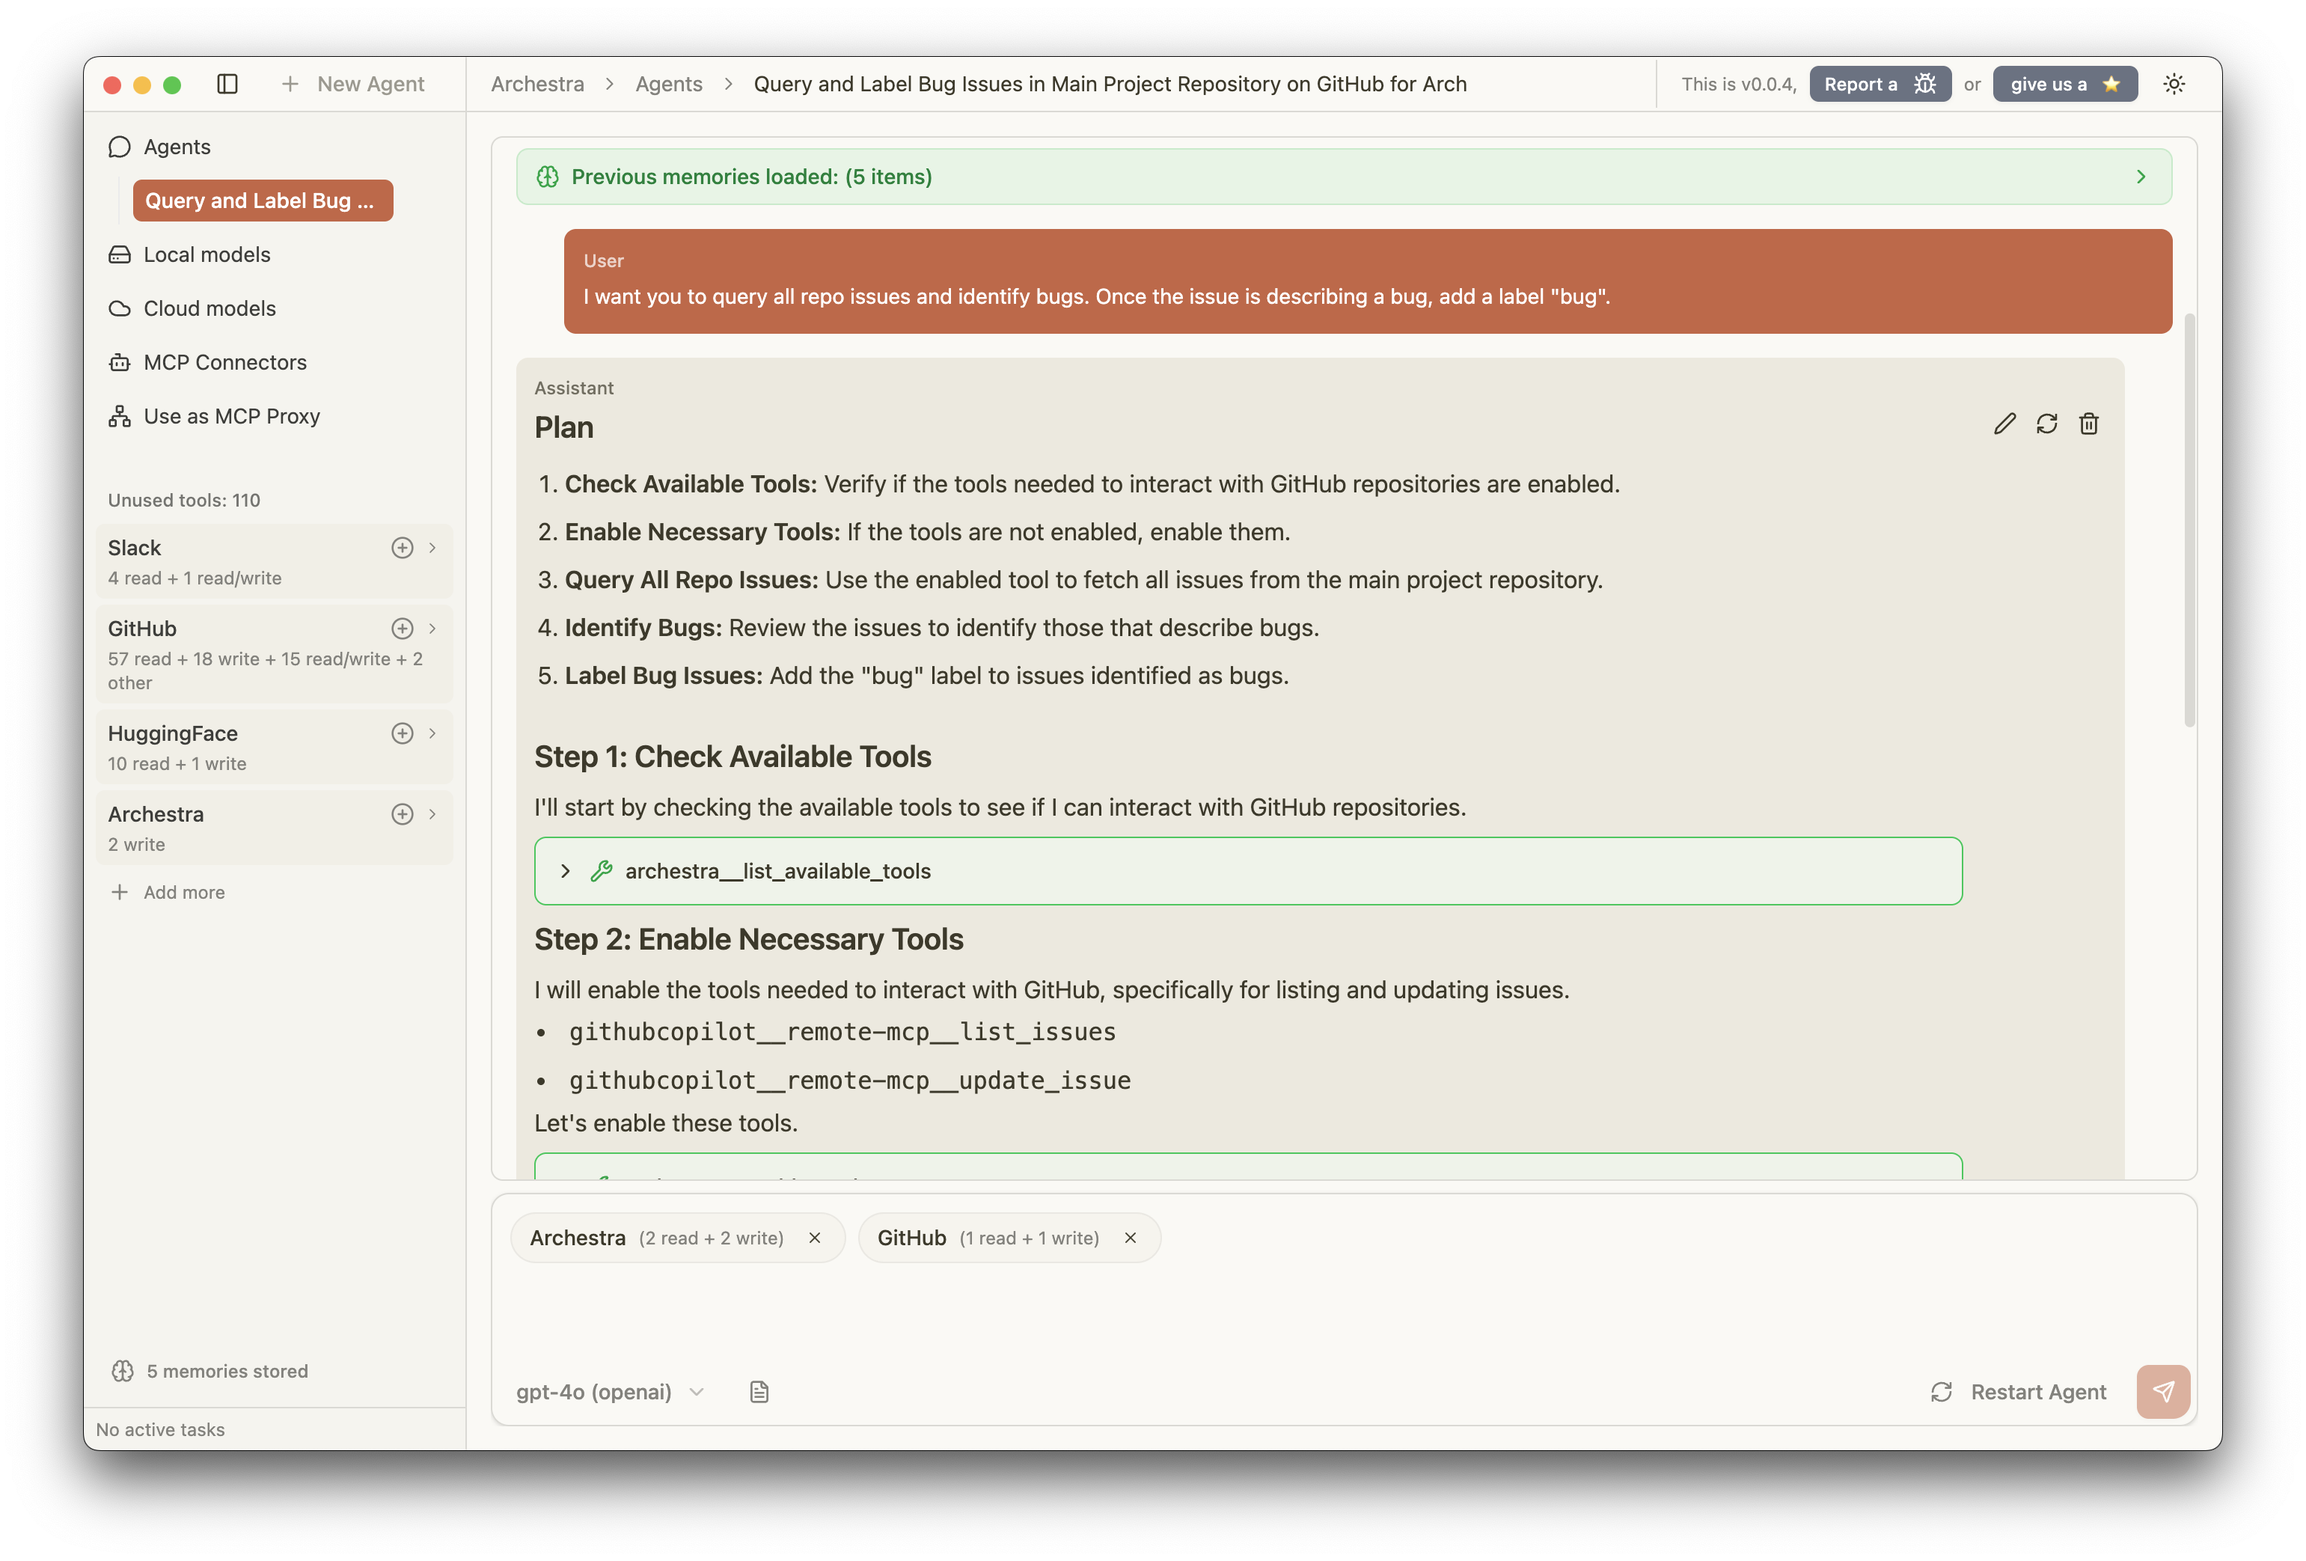
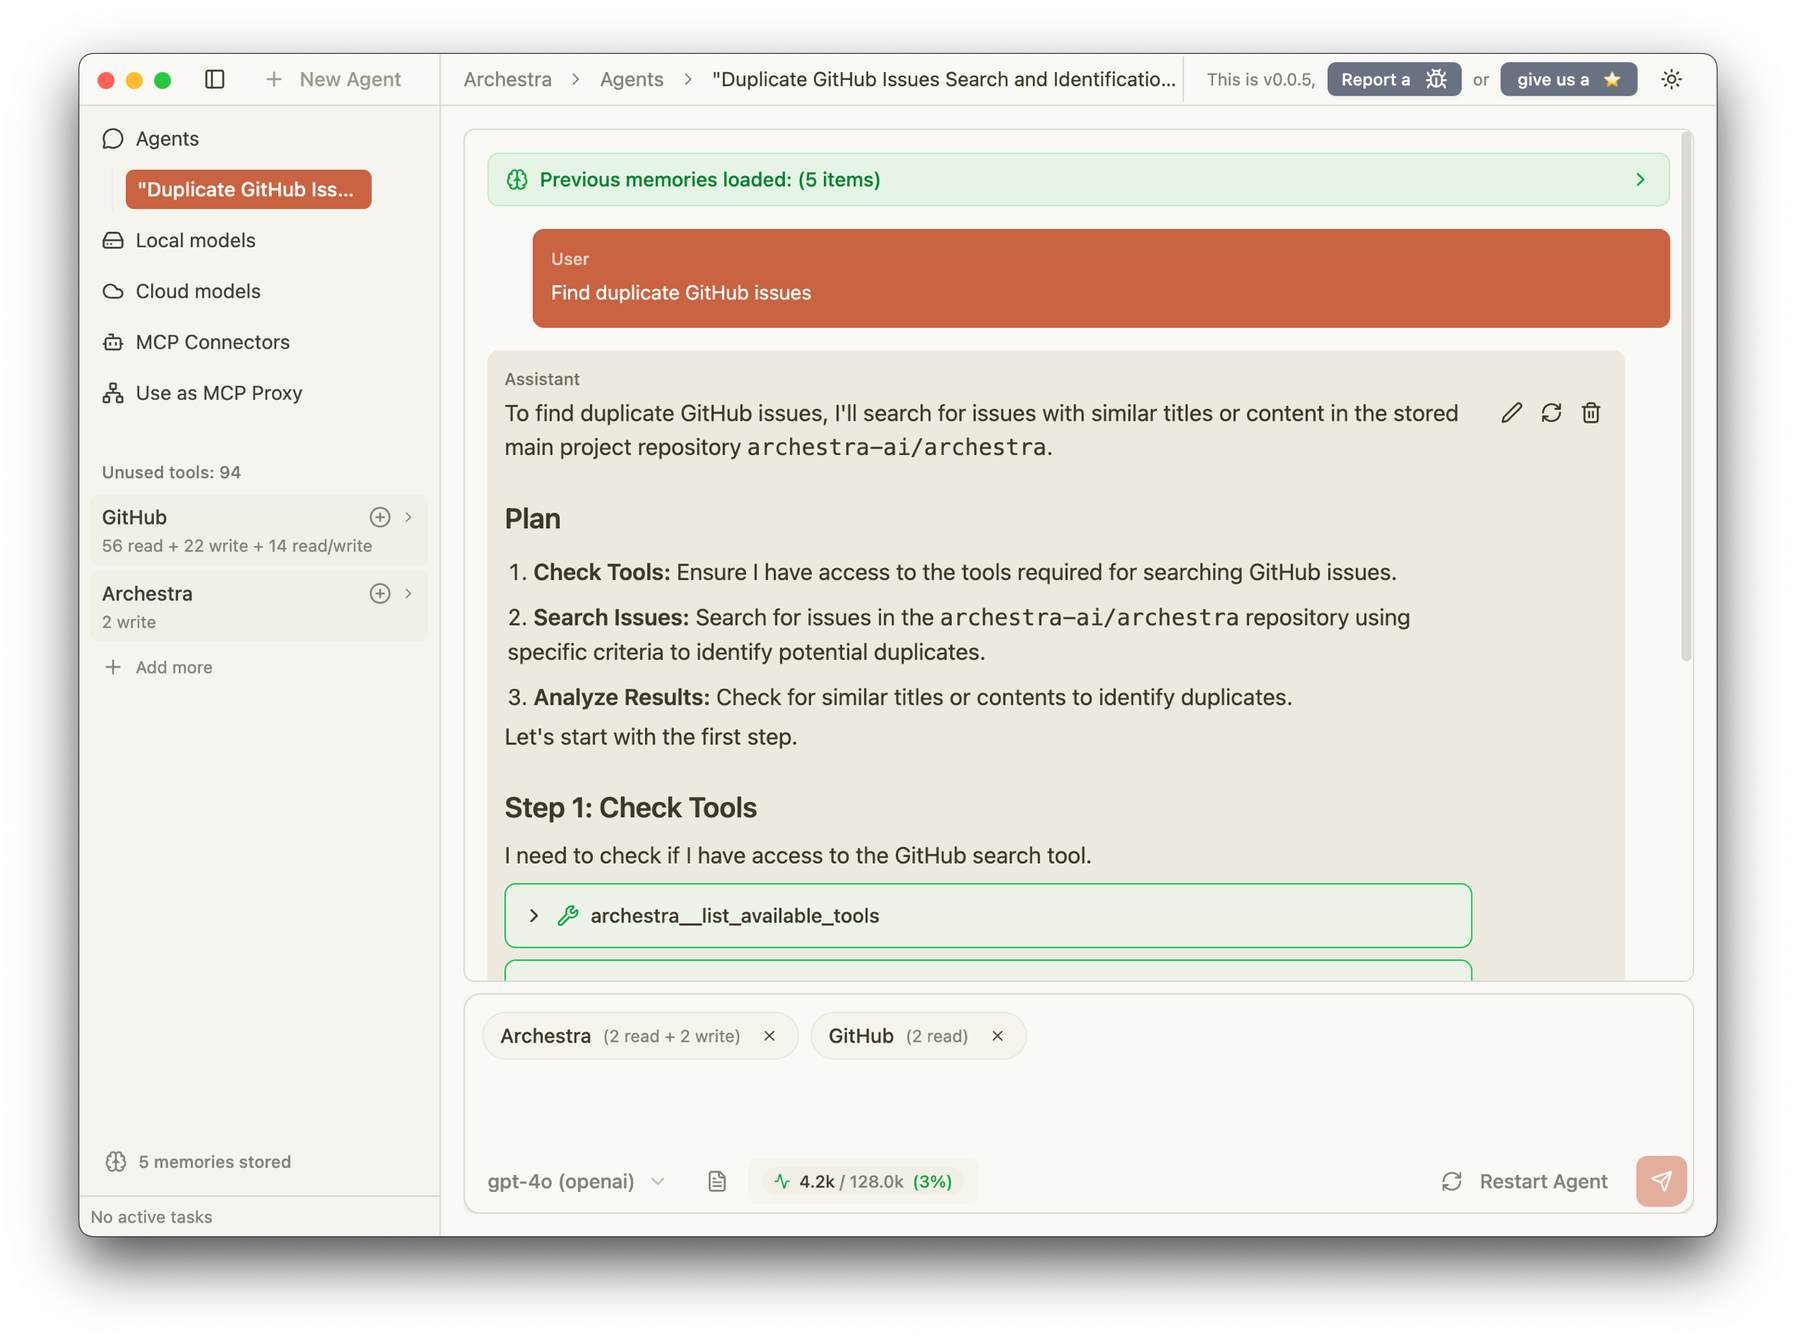
fix: screenshot (#127)

diff --git a/app/app/page.tsx b/app/app/page.tsx
@@ -53,25 +53,29 @@ export default async function Home() {
           <div className="container px-4 md:px-6 py-16 max-w-7xl mx-auto">
             <div className="flex flex-col lg:flex-row items-center gap-12">
               <div className="flex-1 text-center lg:text-left">
-                <h1 className="text-4xl md:text-5xl font-bold text-gray-900 mb-6">Easy-to-use local MCP</h1>
+                <h1 className="text-2xl md:text-3xl font-bold text-gray-900 mb-2">Simple & Safe Local Agent</h1>
+                <h2 className="text-lg md:text-xl text-gray-600 mb-6">
+                  For management, legal, finance, sales, HR, engineering, marketing, operations, IT, research
+                </h2>
                 <p className="text-base text-gray-700 mb-8">
-                  Build helpful agents with prompts!
-                  <br />
-                  <br />
                   - ChatGPT-like interface
-                  <br />- <b>Local</b> for sensitive corporate data
-                  <br />- Sandboxed runtime preventing from <b>supply chain</b> attacks
+                  <br />- Local for sensitive corporate data
+                  <br />- Supports {serverCount} open-source <b>MCP</b> servers
+                  <br />- <b>Sandboxed runtime</b> preventing from supply chain attacks
                   <br />- Configuration <b>without API keys or configs</b>
-                  <br />- Supports {serverCount} open-source MCP servers
-                  <br />- <b>Free and open-source</b>
+                  <br />- Free and open-source
                 </p>
                 <div className="flex justify-center lg:justify-start">
                   <DesktopAppDownloadButton />
                 </div>
               </div>
 
-              <div className="flex-1 max-w-3xl lg:max-w-none">
-                <img src="/screenshot.png" alt="Archestra Autonomous Agents Interface" className="scale-110" />
+              <div className="flex-1 max-w-5xl lg:max-w-none">
+                <img
+                  src="/screenshot.png"
+                  alt="Archestra Autonomous Agents Interface"
+                  className="scale-75 md:scale-90 lg:scale-150"
+                />
               </div>
             </div>
           </div>
